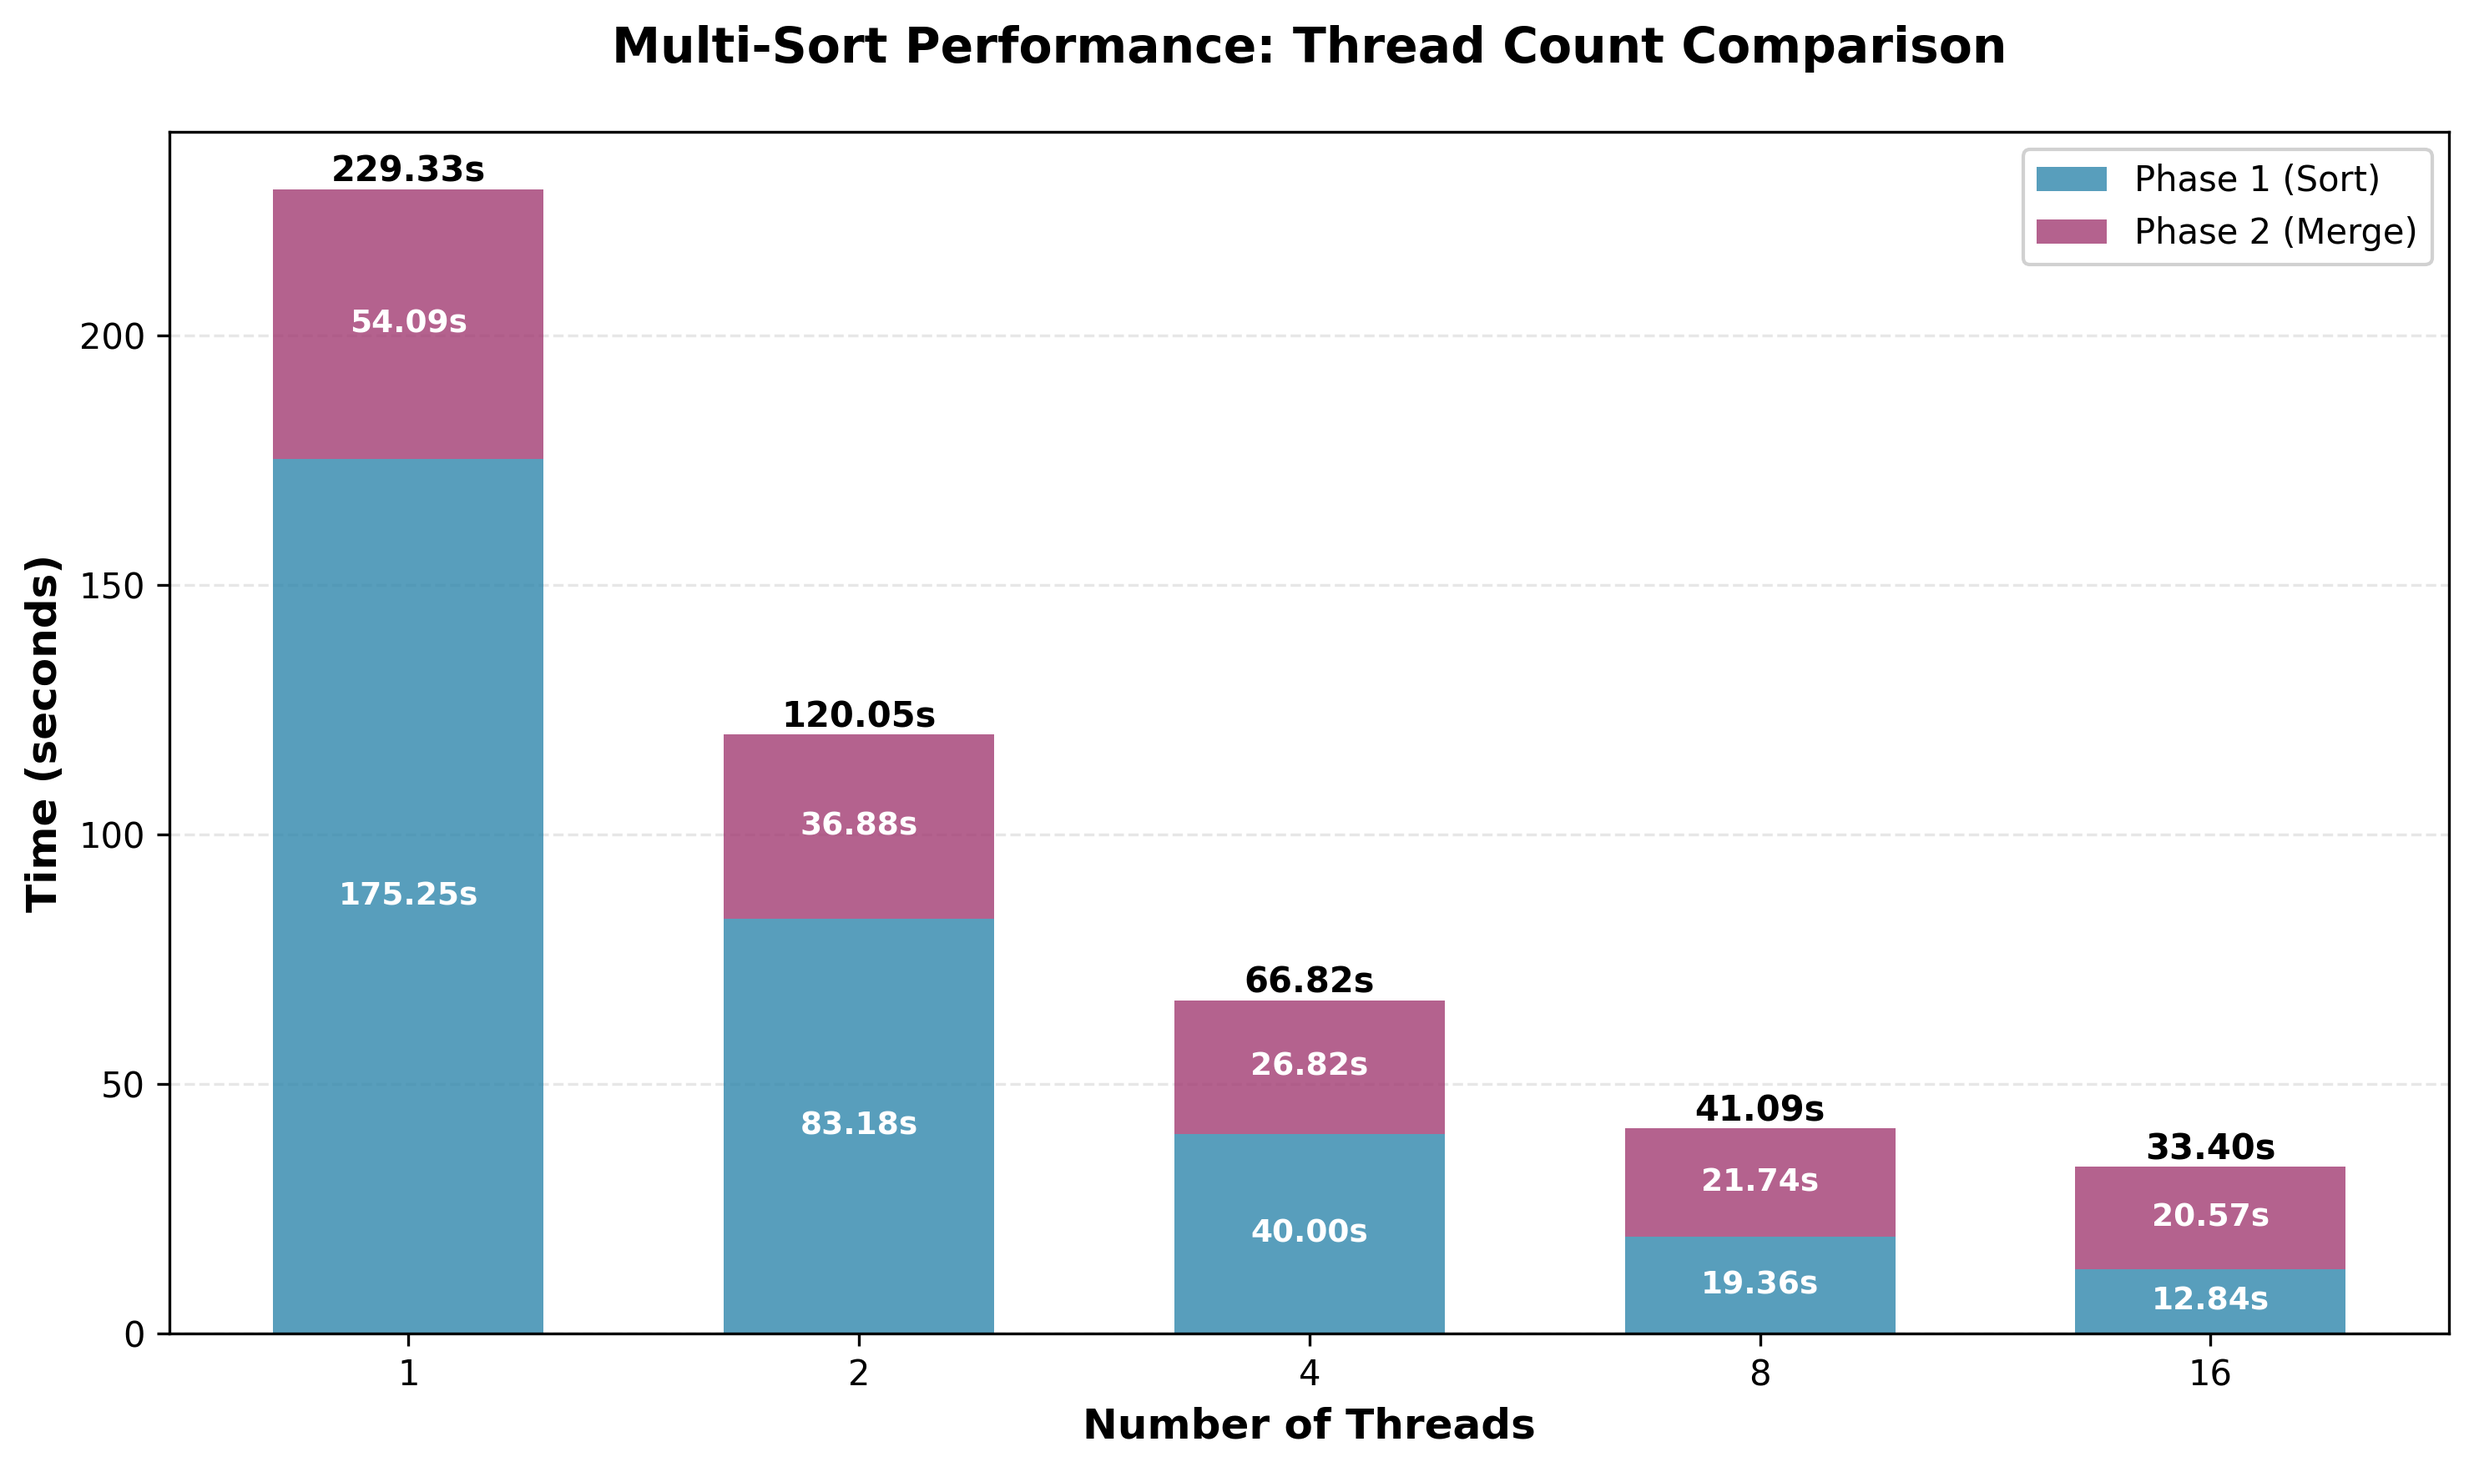
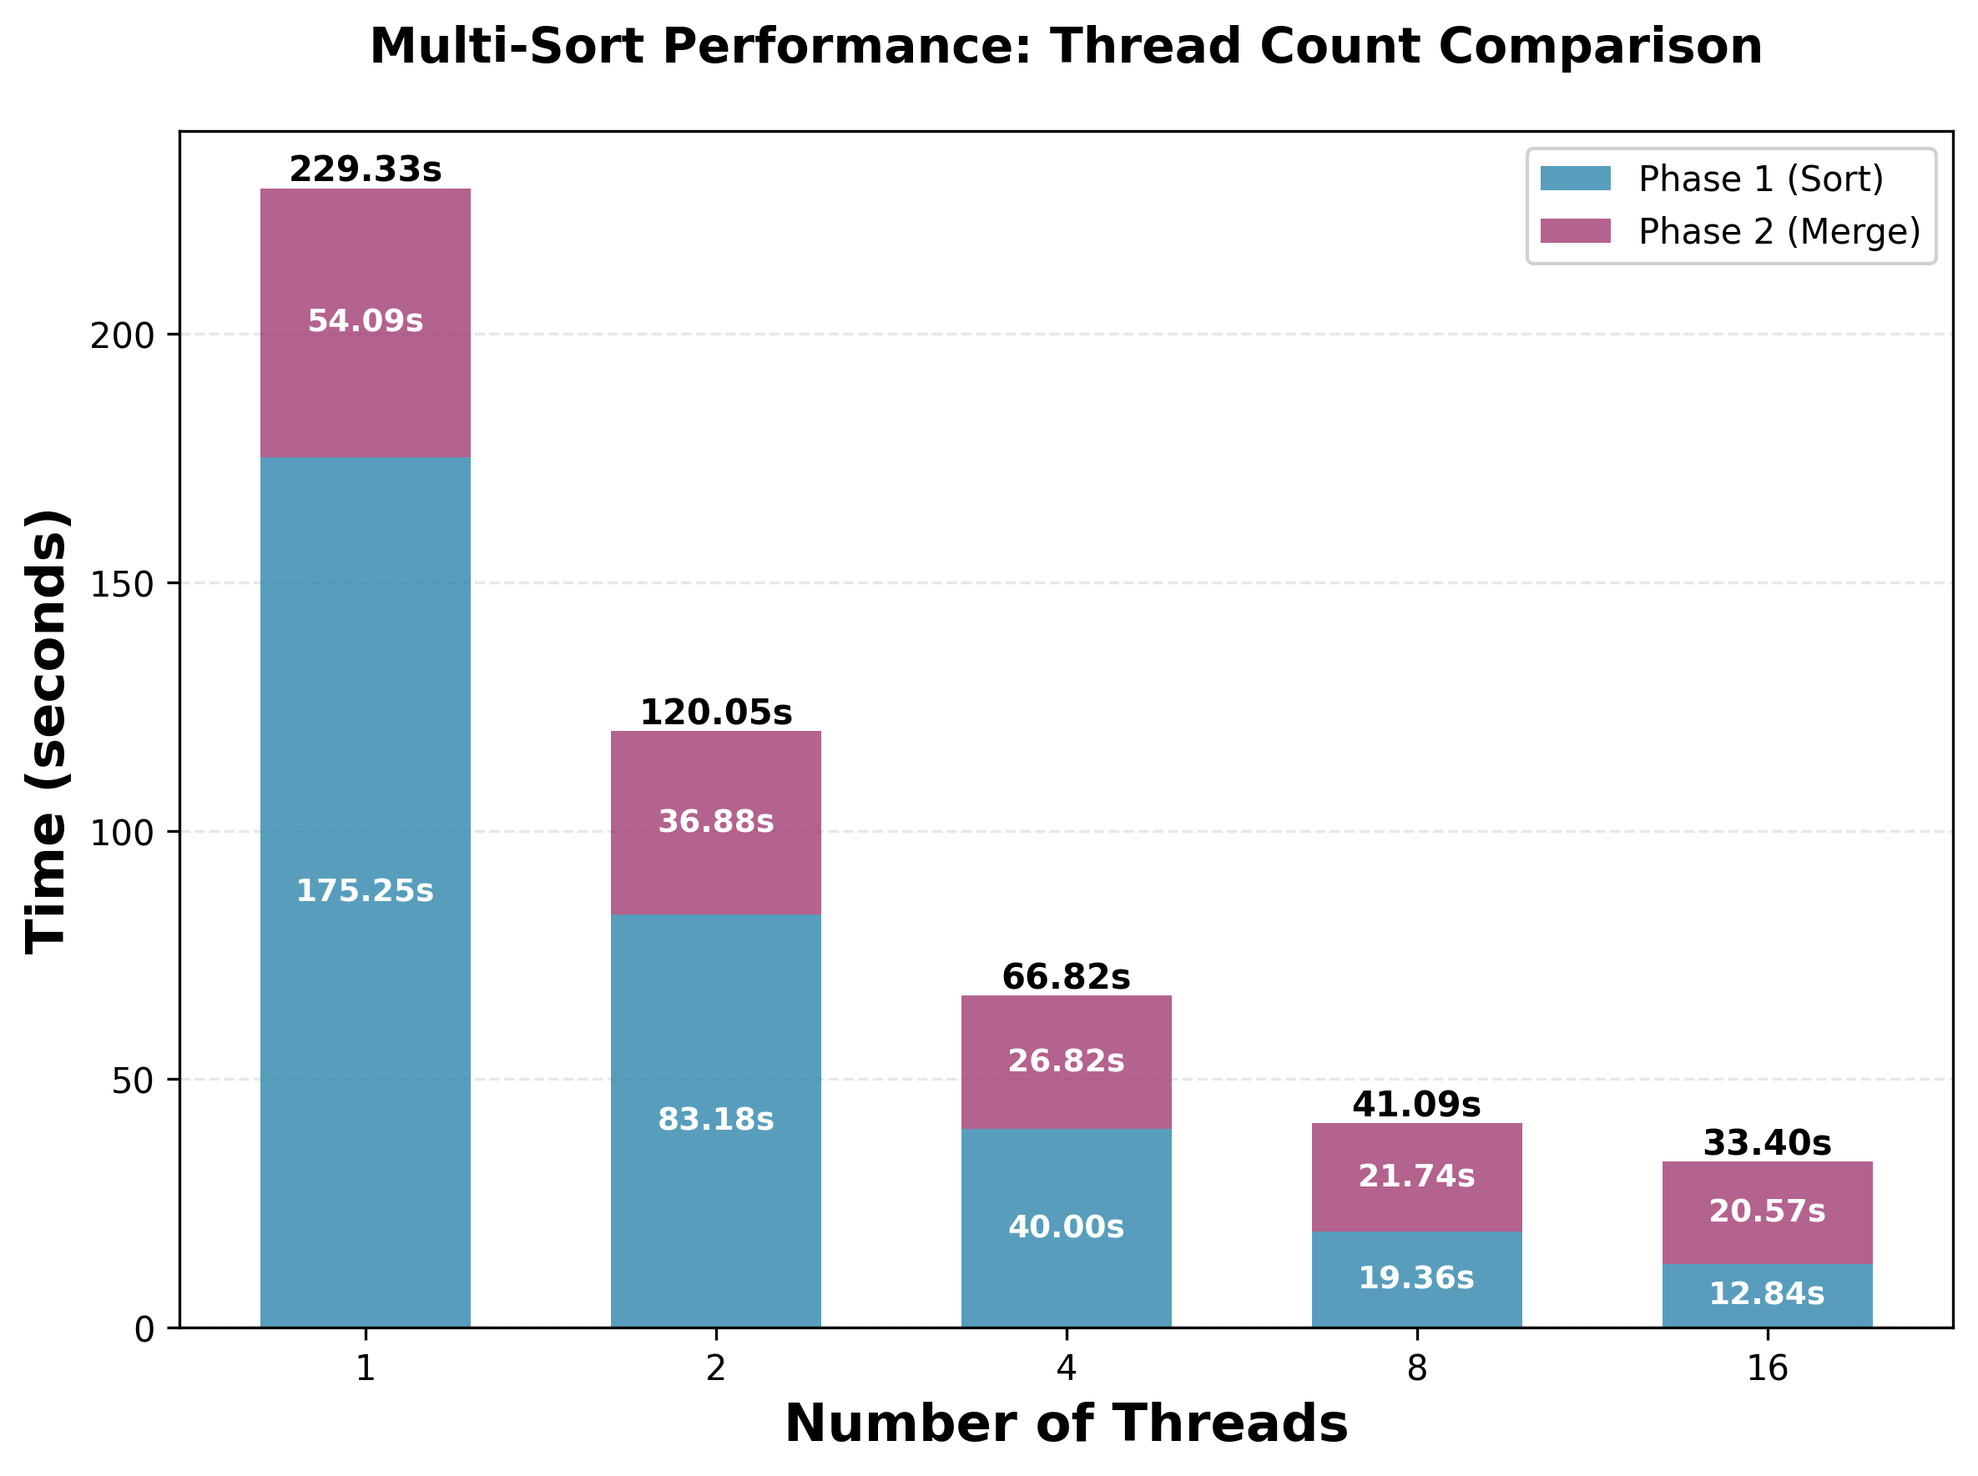
Initial benchmark

diff --git a/plot_results.py b/plot_results.py
@@ -44,7 +44,7 @@ def plot_results(csv_filename='multi_sort_results.csv', output_file='multi_sort_
     threads, total_times, phase1_times, phase2_times = read_csv_data(csv_filename)
     
     # Create figure and axis
-    fig, ax = plt.subplots(figsize=(10, 6))
+    fig, ax = plt.subplots(figsize=(8, 6))
     
     # X positions for bars
     x = np.arange(len(threads))
@@ -57,8 +57,8 @@ def plot_results(csv_filename='multi_sort_results.csv', output_file='multi_sort_
                    label='Phase 2 (Merge)', color='#A23B72', alpha=0.8)
     
     # Customize axes
-    ax.set_xlabel('Number of Threads', fontsize=12, fontweight='bold')
-    ax.set_ylabel('Time (seconds)', fontsize=12, fontweight='bold')
+    ax.set_xlabel('Number of Threads', fontsize=15, fontweight='bold')
+    ax.set_ylabel('Time (seconds)', fontsize=15, fontweight='bold')
     
     # Set x-axis labels
     ax.set_xticks(x)

diff --git a/generate_data.py b/generate_data.py
@@ -5,7 +5,7 @@ from pathlib import Path
 
 import numpy as np
 
-DISTRIBUTIONS = ['uniform', 'normal', 'pareto', 'sorted', 'reverse', 'nearly', 'same']
+DISTRIBUTIONS = ['uniform', 'normal', 'pareto', 'sorted', 'reverse', 'nearly']
 
 
 def write_binary_array(filename: str, data: np.ndarray) -> float:
@@ -59,11 +59,6 @@ def generate_nearly(size: int) -> np.ndarray:
     return data
 
 
-def generate_same(size: int) -> np.ndarray:
-    """All same value (42)."""
-    return np.full(size, 42, dtype=np.uint32)
-
-
 GENERATORS = {
     'uniform': generate_uniform,
     'normal': generate_normal,
@@ -71,7 +66,6 @@ GENERATORS = {
     'sorted': generate_sorted,
     'reverse': generate_reverse,
     'nearly': generate_nearly,
-    'same': generate_same,
 }
 
 
